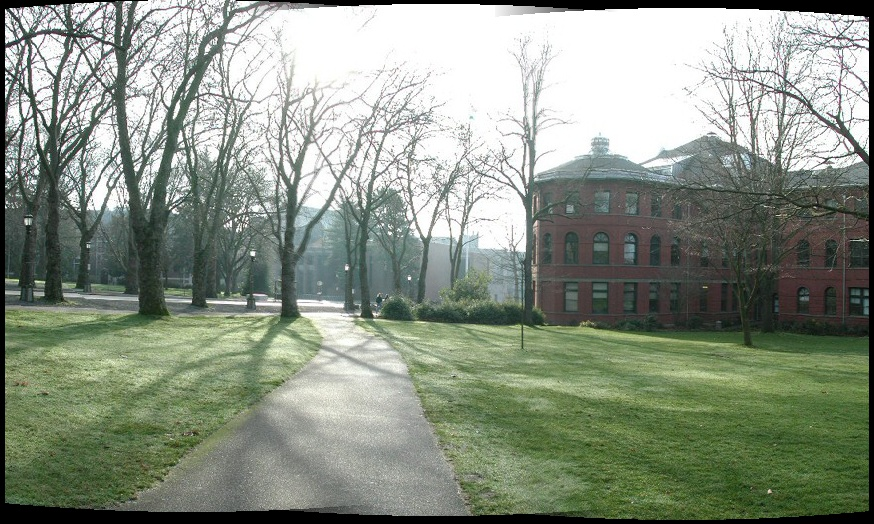
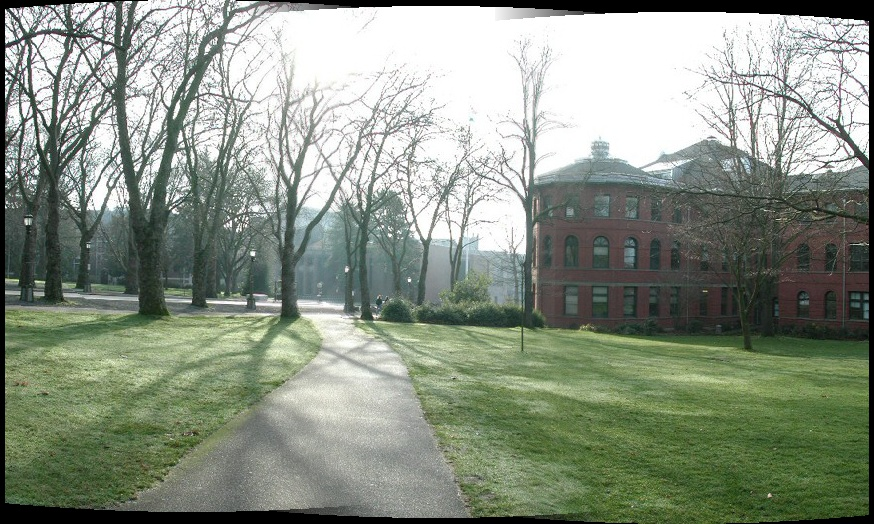
99.5%

diff --git a/cylindrical.cpp b/cylindrical.cpp
@@ -31,7 +31,7 @@ void cylindrical(Mat& src, vector<cv::KeyPoint> &kps, double f){
 
 Mat cylindrical_merge(const Mat& left, const Mat& right, double x2x, double y2y, double angle = 0){
     int cols = ceil(left.cols/2.0 + right.cols/2.0 + x2x);
-    int rows = ceil(max(double(left.rows/2.0 + right.rows/2.0 + abs(y2y)), double(max(left.rows,right.rows))))+5;
+    int rows = ceil(max(double(left.rows/2.0 + right.rows/2.0 + abs(y2y)), double(max(left.rows,right.rows))))+1;
     // if(left.rows/2.0 + right.rows/2.0 + abs(y2y) > max(left.rows,right.rows))
     //     rows = left.rows/2.0 + right.rows/2.0 + abs(y2y);
     // double overlap_x = (left.cols+right.cols)/2.0 - x2x;
@@ -73,7 +73,7 @@ Mat cylindrical_merge(const Mat& left, const Mat& right, double x2x, double y2y,
             left(Rect(0,0,left.cols - overlap_x,left.rows)).copyTo(res(Rect(0,0,left.cols - overlap_x, left.rows)));
             // if()
             // right(Rect(overlap_x,0,right.cols - overlap_x,right.rows)).copyTo(res(Rect(left.cols,y2y,right.cols - overlap_x,right.rows)));
-            right(Rect(overlap_x,0,right.cols - overlap_x,right.rows)).copyTo(res(Rect(left.cols,y2y,right.cols - overlap_x,right.rows)));
+            right(Rect(overlap_x,0,right.cols - overlap_x,right.rows)).copyTo(res(Rect(left.cols,rows-right.rows,right.cols - overlap_x,right.rows)));
             int count = overlap_x;
             
             double alpha,beta;
@@ -81,7 +81,7 @@ Mat cylindrical_merge(const Mat& left, const Mat& right, double x2x, double y2y,
                 Mat temp_l(rows,1,CV_8UC3,Scalar(0,0,0));
                 Mat temp_r(rows,1,CV_8UC3,Scalar(0,0,0));
                 left(Rect(i,0,1,left.rows)).copyTo(temp_l(Rect(0,0,1,left.rows)));
-                right(Rect(overlap_x - count,0,1,right.rows)).copyTo(temp_r(Rect(0,y2y,1,right.rows)));
+                right(Rect(overlap_x - count,0,1,right.rows)).copyTo(temp_r(Rect(0,rows-right.rows,1,right.rows)));
                 if(count > overlap_x - edge)
                     alpha = 1.0;
                 else if(count <= edge)

diff --git a/image_stitching.cpp b/image_stitching.cpp
@@ -99,7 +99,7 @@ int main(int argc, char**argv){
         }
     }
 
-    int max_hamming_distance = 120;
+    int max_hamming_distance = 125;
     int ransac_times = 800;
     bool left2right = true;
 
@@ -639,7 +639,8 @@ void panorama(const vector<Mat> &cy_Mat, const vector<pair<double,double> > &dxd
         }
         else{
             temp_dx = (result_mat.cols - cy_Mat[i+1].cols)/2.0 - dxdy[i].first;
-            temp_dy = result_mat.rows/2.0 - cy_Mat[i+1].rows/2.0 - (dxdy[i].second - y_bias);
+            temp_dy = (result_mat.rows - cy_Mat[i+1].rows)/2.0 - (dxdy[i].second - y_bias);
+            // temp_dy = -(dxdy[i].second - y_bias);
             result_mat = cylindrical_merge(cy_Mat[i+1],result_mat,temp_dx,temp_dy,0);
         }
     }
